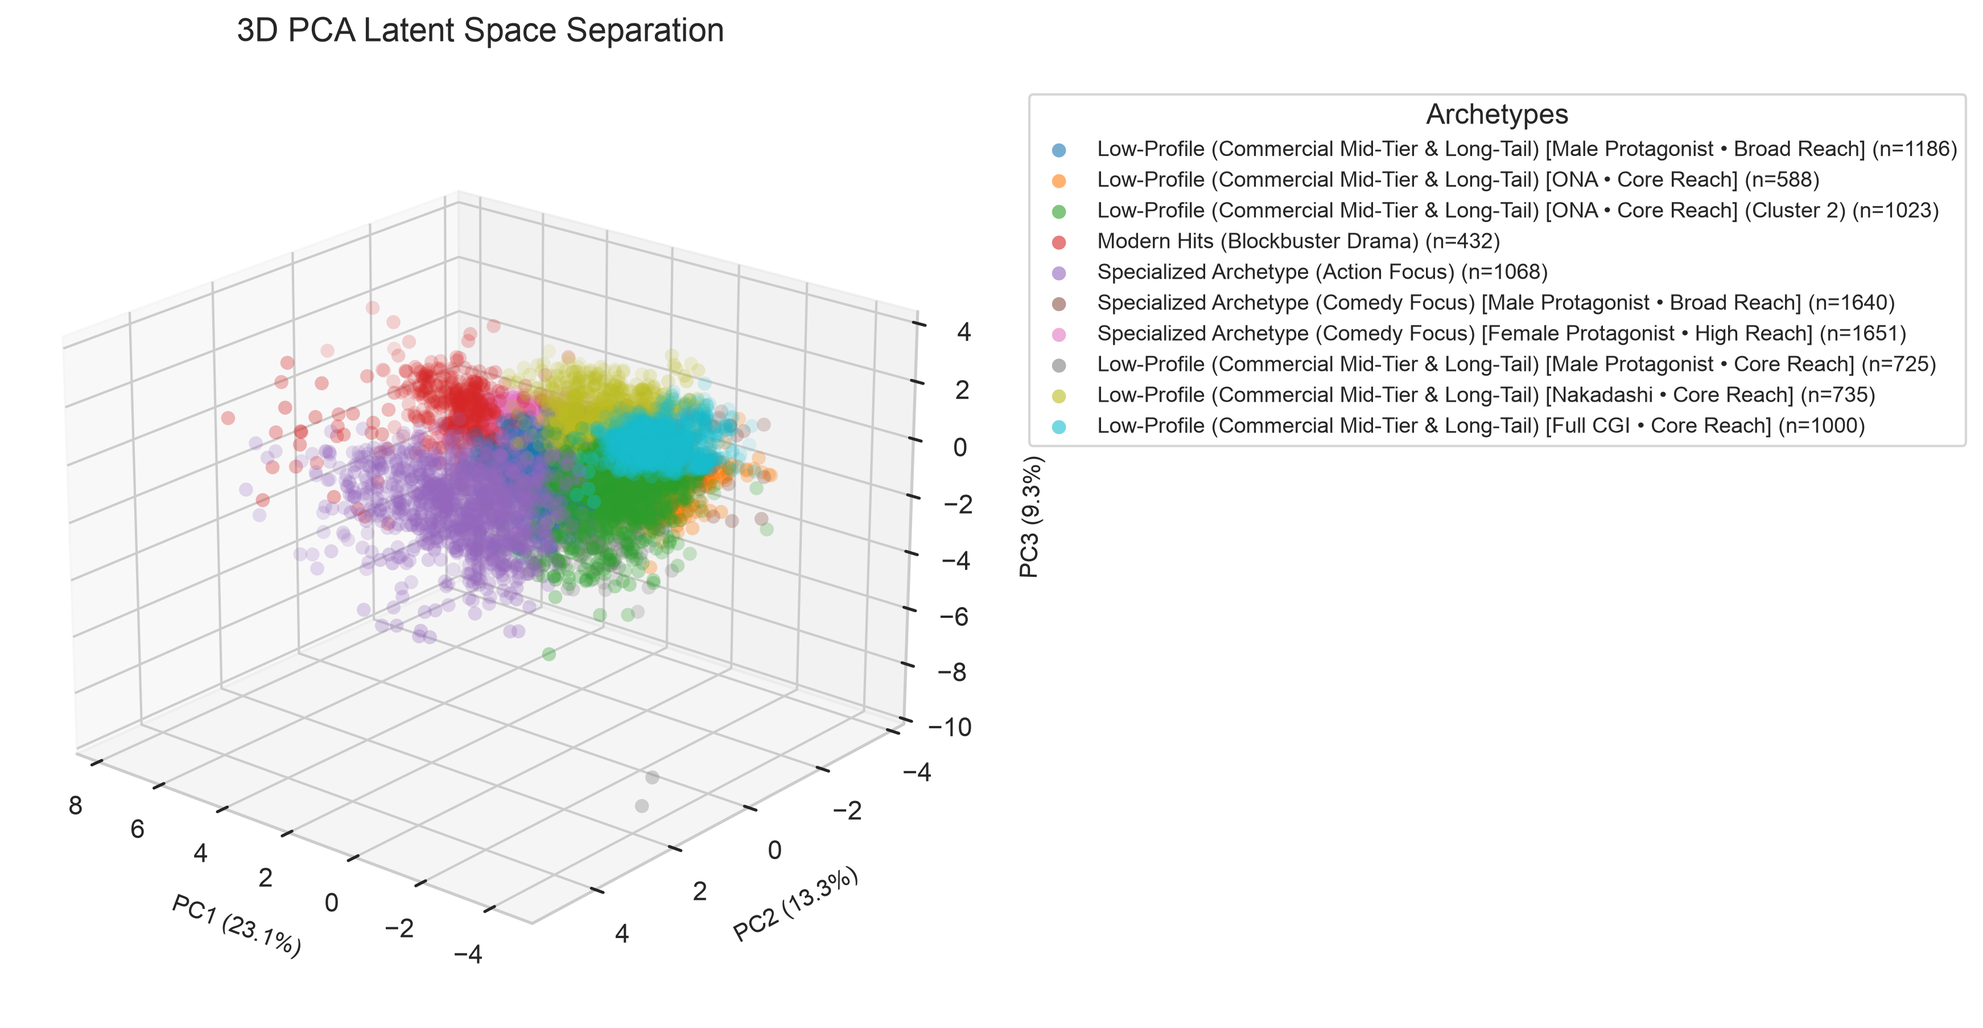
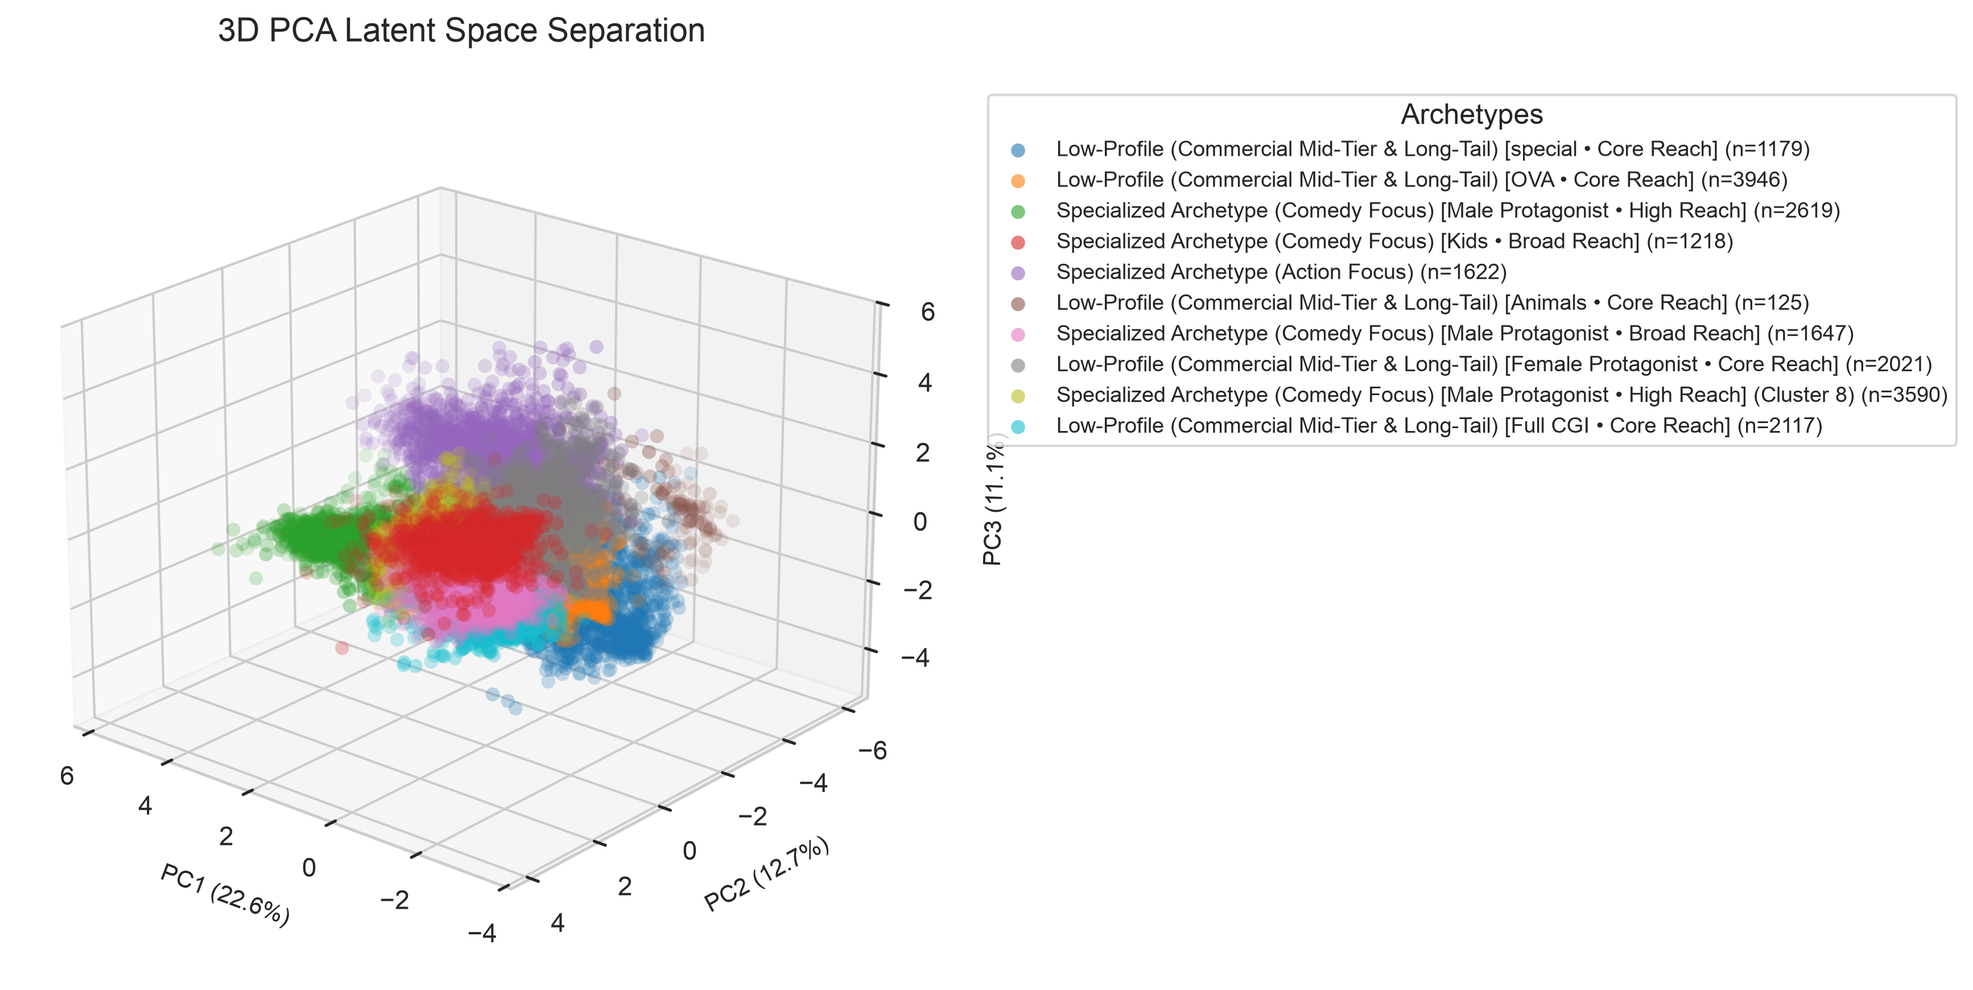
feat(data): expand catalog to 20,084 anime titles with adaptive clustering re-analysis

diff --git a/scripts/harvest_10k.py b/scripts/harvest_10k.py
@@ -67,6 +67,11 @@ class ParallelAnimeHarvester:
         """Worker thread for AniList GraphQL endpoint."""
         logger.info("AniList Worker started (rate delay: %.1fs)...", self.rate_delay)
         sort_plans = [
+            ("ID", 1, 100),
+            ("ID_DESC", 1, 100),
+            ("EPISODES_DESC", 1, 100),
+            ("TRENDING_DESC", 1, 100),
+            ("UPDATED_AT_DESC", 1, 100),
             ("POPULARITY_DESC", self.db.get_fetch_page("anilist"), 100),
             ("SCORE_DESC", 1, 100),
             ("FAVOURITES_DESC", 1, 100),
@@ -138,7 +143,7 @@ class ParallelAnimeHarvester:
         logger.info("Kitsu Worker started (rate delay: %.1fs)...", self.rate_delay)
         start_offset = (self.db.get_fetch_page("kitsu") - 1) * 20
         offset = start_offset
-        max_offset = 15000  # Kitsu has ~22,000 anime
+        max_offset = 22480  # Kitsu has ~22,481 anime
 
         try:
             while offset <= max_offset and not self.stop_event.is_set():
@@ -250,7 +255,7 @@ def run_pipeline_reanalysis(adaptive_k: bool = True) -> None:
     """Run full clustering and visualization pipeline on expanded catalog."""
     logger.info("=== Starting Pipeline Re-Analysis on Expanded Catalog ===")
     config = PipelineConfig(
-        num_samples=15000,  # Process all available DB records
+        num_samples=30000,  # Process all available DB records
         offline_mode=True,  # Work directly from populated local database
         adaptive_k=adaptive_k,
     )

diff --git a/reports/cluster_analysis_report.md b/reports/cluster_analysis_report.md
@@ -1,12 +1,12 @@
 # Anime Unsupervised Clustering & Empirical Archetype Report
 
 ## Executive Summary
-- **Dataset Analyzed**: 10,048 anime entries (Current SQLite Local Database: 10,048 titles)
+- **Dataset Analyzed**: 20,084 anime entries (Current SQLite Local Database: 20,084 titles)
 - **Data Architecture**: Dual-storage engine (SQLite `data/anime_catalog.db` with auto-sync to `data/raw_anime_data.json`)
 - **Multi-Source Support**: Primary AniList GraphQL API + Secondary Kitsu JSON:API fallback with polite rate-limiting
 - **Feature Dimensionality**: 77 engineered features (Continuous standard, categorical one-hot, multi-label genres, and TF-IDF tags)
 - **K-Means Cluster Count ($k$)**: 10
-- **DBSCAN Density Structure**: 6 dense core clusters, 119 structural noise/outlier points
+- **DBSCAN Density Structure**: 2 dense core clusters, 36 structural noise/outlier points
 
 ---
 
@@ -15,9 +15,9 @@ Cluster cohesion and separation were evaluated across candidate cluster counts $
 
 | $k$ (Clusters) | Inertia ($WCSS$) | Silhouette Score | Archetype Alignment Status |
 |:--------------:|:----------------:|:----------------:|:--------------------------:|
-| 10 | 64065.18 | 0.1116 | Selected |
-| 11 | 62802.63 | 0.1057 |  |
-| 12 | 61675.41 | 0.1085 |  |
+| 10 | 116331.67 | 0.1331 | Selected |
+| 11 | 112126.75 | 0.1327 |  |
+| 12 | 110513.50 | 0.1279 |  |
 
 > [!NOTE]
 > **Adaptive Cluster Scaling & Parsimony Tradeoff**: The candidate search window scales dynamically with catalog volume. Penalized silhouette scoring prevents premature saturation at coarse $k$ while rewarding relative inertia reduction, allowing subtle sub-genres and era distinctions to surface as the database grows.
@@ -27,121 +27,121 @@ Cluster cohesion and separation were evaluated across candidate cluster counts $
 ## 2. Cluster Profiles Summary Table
 Quantitative feature means and dominant categorical traits across each discovered cluster archetype:
 
-|   cluster_id | archetype                                                                      |   size |   score |   mean_score |   popularity |   mean_popularity |   year |   median_year |   favorites_ratio |   mean_favorites_ratio | top_genres                 | top_tags                                           |
-|--------------|--------------------------------------------------------------------------------|--------|---------|--------------|--------------|-------------------|--------|---------------|-------------------|------------------------|----------------------------|----------------------------------------------------|
-|            0 | Low-Profile (Commercial Mid-Tier & Long-Tail) [Male Protagonist • Broad Reach] |   1186 |   70.08 |        70.08 |     13943.90 |          13943.90 |   2014 |       2014.50 |              0.01 |                   0.01 | Comedy, Action, Fantasy    | Male Protagonist, Female Protagonist, School       |
-|            1 | Low-Profile (Commercial Mid-Tier & Long-Tail) [ONA • Core Reach]               |    588 |   66.75 |        66.75 |      3215.20 |           3215.17 |   2012 |       2012.00 |              0.00 |                   0.00 | Animation, Tv, Ona         | TV, ONA, special                                   |
-|            2 | Low-Profile (Commercial Mid-Tier & Long-Tail) [ONA • Core Reach] (Cluster 2)   |   1023 |   69.02 |        69.02 |      3344.50 |           3344.53 |   2012 |       2012.00 |              0.00 |                   0.00 | Animation, Special, Ova    | special, OVA, ONA                                  |
-|            3 | Modern Hits (Blockbuster Drama)                                                |    432 |   81.95 |        81.95 |    234334.10 |         234334.08 |   2017 |       2017.00 |              0.05 |                   0.05 | Drama, Action, Comedy      | Male Protagonist, Tragedy, Female Protagonist      |
-|            4 | Specialized Archetype (Action Focus)                                           |   1068 |   72.60 |        72.60 |     25377.40 |          25377.40 |   2014 |       2013.50 |              0.01 |                   0.01 | Action, Drama, Adventure   | Male Protagonist, Female Protagonist, Tragedy      |
-|            5 | Specialized Archetype (Comedy Focus) [Male Protagonist • Broad Reach]          |   1640 |   61.79 |        61.79 |     21389.30 |          21389.35 |   2016 |       2016.00 |              0.01 |                   0.01 | Comedy, Action, Fantasy    | Male Protagonist, Female Protagonist, School       |
-|            6 | Specialized Archetype (Comedy Focus) [Female Protagonist • High Reach]         |   1651 |   73.22 |        73.22 |     76869.80 |          76869.82 |   2019 |       2019.00 |              0.02 |                   0.02 | Comedy, Action, Fantasy    | Male Protagonist, Female Protagonist, Heterosexual |
-|            7 | Low-Profile (Commercial Mid-Tier & Long-Tail) [Male Protagonist • Core Reach]  |    725 |   70.13 |        70.13 |     12829.10 |          12829.15 |   1999 |       1999.00 |              0.02 |                   0.02 | Comedy, Action, Adventure  | Male Protagonist, Female Protagonist, Shounen      |
-|            8 | Low-Profile (Commercial Mid-Tier & Long-Tail) [Nakadashi • Core Reach]         |    735 |   67.48 |        67.48 |      2388.00 |           2387.97 |   2015 |       2015.00 |              0.04 |                   0.04 | Hentai, Fantasy, Action    | Nakadashi, Fellatio, Large Breasts                 |
-|            9 | Low-Profile (Commercial Mid-Tier & Long-Tail) [Full CGI • Core Reach]          |   1000 |   67.77 |        67.77 |       630.80 |            630.79 |   2015 |       2015.00 |              0.01 |                   0.01 | Fantasy, Action, Adventure | Full CGI, Female Protagonist, Male Protagonist     |
+|   cluster_id | archetype                                                                        |   size |   score |   mean_score |   popularity |   mean_popularity |   year |   median_year |   favorites_ratio |   mean_favorites_ratio | top_genres                | top_tags                                           |
+|--------------|----------------------------------------------------------------------------------|--------|---------|--------------|--------------|-------------------|--------|---------------|-------------------|------------------------|---------------------------|----------------------------------------------------|
+|            0 | Low-Profile (Commercial Mid-Tier & Long-Tail) [special • Core Reach]             |   1179 |   66.49 |        66.49 |       249.00 |            248.98 |   2014 |       2014.00 |              0.23 |                   0.23 | Animation, Special, Ona   | special, ONA, music                                |
+|            1 | Low-Profile (Commercial Mid-Tier & Long-Tail) [OVA • Core Reach]                 |   3946 |   65.83 |        65.83 |       701.20 |            701.21 |   2012 |       2012.00 |              0.01 |                   0.01 | Animation, Special, Ova   | special, OVA, Female Protagonist                   |
+|            2 | Specialized Archetype (Comedy Focus) [Male Protagonist • High Reach]             |   2619 |   73.19 |        73.19 |     94218.00 |          94218.04 |   2018 |       2018.00 |              0.02 |                   0.02 | Comedy, Action, Drama     | Male Protagonist, Female Protagonist, Heterosexual |
+|            3 | Specialized Archetype (Comedy Focus) [Kids • Broad Reach]                        |   1218 |   63.75 |        63.75 |      2630.10 |           2630.09 |   1989 |       1989.00 |              0.01 |                   0.01 | Comedy, Adventure, Sci-Fi | Male Protagonist, Kids, Female Protagonist         |
+|            4 | Specialized Archetype (Action Focus)                                             |   1622 |   71.05 |        71.05 |     20415.10 |          20415.06 |   2012 |       2012.00 |              0.01 |                   0.01 | Action, Drama, Adventure  | Male Protagonist, Female Protagonist, movie        |
+|            5 | Low-Profile (Commercial Mid-Tier & Long-Tail) [Animals • Core Reach]             |    125 |   57.35 |        57.35 |       286.40 |            286.36 |   1938 |       1938.00 |              0.20 |                   0.20 | Animation, Movie, Special | movie, Achromatic, Animals                         |
+|            6 | Specialized Archetype (Comedy Focus) [Male Protagonist • Broad Reach]            |   1647 |   53.23 |        53.23 |      2632.50 |           2632.50 |   2014 |       2014.00 |              0.01 |                   0.01 | Comedy, Fantasy, Action   | Female Protagonist, Kids, Male Protagonist         |
+|            7 | Low-Profile (Commercial Mid-Tier & Long-Tail) [Female Protagonist • Core Reach]  |   2021 |   51.81 |        51.81 |      1357.40 |           1357.40 |   2000 |       2000.00 |              0.01 |                   0.01 | Hentai, Comedy, Action    | Female Protagonist, Male Protagonist, Rape         |
+|            8 | Specialized Archetype (Comedy Focus) [Male Protagonist • High Reach] (Cluster 8) |   3590 |   67.01 |        67.01 |      9866.80 |           9866.84 |   2013 |       2013.00 |              0.01 |                   0.01 | Comedy, Action, Fantasy   | Male Protagonist, Female Protagonist, School       |
+|            9 | Low-Profile (Commercial Mid-Tier & Long-Tail) [Full CGI • Core Reach]            |   2117 |   67.42 |        67.42 |       403.80 |            403.85 |   2012 |       2012.00 |              0.01 |                   0.01 | Fantasy, Action, Comedy   | Full CGI, ONA, TV                                  |
 
 ---
 
 ## 3. Detailed Empirical Archetype Findings
-### Cluster 0: Low-Profile (Commercial Mid-Tier & Long-Tail) [Male Protagonist • Broad Reach]
-- **Cluster Size**: 1186 titles (11.8% of catalog)
+### Cluster 0: Low-Profile (Commercial Mid-Tier & Long-Tail) [special • Core Reach]
+- **Cluster Size**: 1179 titles (5.9% of catalog)
 - **Median Release Year**: 2014
-- **Mean Average Score**: 70.08 / 100
-- **Mean Popularity**: 13,944 members
-- **Favorites-to-Popularity Ratio**: 0.0090
-- **Dominant Genres**: Comedy, Action, Fantasy
-- **Key Thematic Tags**: Male Protagonist, Female Protagonist, School
-- **Representative Exemplar Titles**: Attack on Titan: No Regrets, Steins;Gate: Egoistic Poriomania, the Garden of sinners Chapter 1: Thanatos. (Overlooking View), Little Witch Academia, One-Punch Man: Road to Hero
+- **Mean Average Score**: 66.49 / 100
+- **Mean Popularity**: 249 members
+- **Favorites-to-Popularity Ratio**: 0.2254
+- **Dominant Genres**: Animation, Special, Ona
+- **Key Thematic Tags**: special, ONA, music
+- **Representative Exemplar Titles**: Dirty Pair Flash 3, Solty Rei Special, UFO Princess Valkyrie: Special, Toriko x One Piece Collabo Special, Shukufuku no Campanella Specials
 
-### Cluster 1: Low-Profile (Commercial Mid-Tier & Long-Tail) [ONA • Core Reach]
-- **Cluster Size**: 588 titles (5.9% of catalog)
+### Cluster 1: Low-Profile (Commercial Mid-Tier & Long-Tail) [OVA • Core Reach]
+- **Cluster Size**: 3946 titles (19.6% of catalog)
 - **Median Release Year**: 2012
-- **Mean Average Score**: 66.75 / 100
-- **Mean Popularity**: 3,215 members
-- **Favorites-to-Popularity Ratio**: 0.0033
-- **Dominant Genres**: Animation, Tv, Ona
-- **Key Thematic Tags**: TV, ONA, special
-- **Representative Exemplar Titles**: Kiss x Sis (TV), Aldnoah.Zero 2nd Season, The Asterisk War: The Academy City on the Water, Air, Special A (S.A)
-
-### Cluster 2: Low-Profile (Commercial Mid-Tier & Long-Tail) [ONA • Core Reach] (Cluster 2)
-- **Cluster Size**: 1023 titles (10.2% of catalog)
-- **Median Release Year**: 2012
-- **Mean Average Score**: 69.02 / 100
-- **Mean Popularity**: 3,344 members
-- **Favorites-to-Popularity Ratio**: 0.0032
+- **Mean Average Score**: 65.83 / 100
+- **Mean Popularity**: 701 members
+- **Favorites-to-Popularity Ratio**: 0.0115
 - **Dominant Genres**: Animation, Special, Ova
-- **Key Thematic Tags**: special, OVA, ONA
-- **Representative Exemplar Titles**: Attack on Titan Season 3 Specials, Hunter x Hunter: Greed Island, Hunter x Hunter: Greed Island Final, Avatar: The Legend So Far, Hunter x Hunter OVA
+- **Key Thematic Tags**: special, OVA, Female Protagonist
+- **Representative Exemplar Titles**: My Hero Academia Movie 2: Heroes Rising Epilogue Plus, Naruto Narutimate Hero 3: Tsuini Gekitotsu! Jounin vs. Genin!! Musabetsu Dairansen taikai Kaisai!!, My Ordinary Life Episode 0, Saiki Kusuo OkaerinaPSI Special, Gintama: Shiroyasha Koutan
 
-### Cluster 3: Modern Hits (Blockbuster Drama)
-- **Cluster Size**: 432 titles (4.3% of catalog)
-- **Median Release Year**: 2017
-- **Mean Average Score**: 81.95 / 100
-- **Mean Popularity**: 234,334 members
-- **Favorites-to-Popularity Ratio**: 0.0457
-- **Dominant Genres**: Drama, Action, Comedy
-- **Key Thematic Tags**: Male Protagonist, Tragedy, Female Protagonist
+### Cluster 2: Specialized Archetype (Comedy Focus) [Male Protagonist • High Reach]
+- **Cluster Size**: 2619 titles (13.0% of catalog)
+- **Median Release Year**: 2018
+- **Mean Average Score**: 73.19 / 100
+- **Mean Popularity**: 94,218 members
+- **Favorites-to-Popularity Ratio**: 0.0214
+- **Dominant Genres**: Comedy, Action, Drama
+- **Key Thematic Tags**: Male Protagonist, Female Protagonist, Heterosexual
 - **Representative Exemplar Titles**: Attack on Titan, Demon Slayer: Kimetsu no Yaiba, JUJUTSU KAISEN, Death Note, My Hero Academia
 
-### Cluster 4: Specialized Archetype (Action Focus)
-- **Cluster Size**: 1068 titles (10.6% of catalog)
-- **Median Release Year**: 2014
-- **Mean Average Score**: 72.60 / 100
-- **Mean Popularity**: 25,377 members
-- **Favorites-to-Popularity Ratio**: 0.0129
-- **Dominant Genres**: Action, Drama, Adventure
-- **Key Thematic Tags**: Male Protagonist, Female Protagonist, Tragedy
-- **Representative Exemplar Titles**: Demon Slayer -Kimetsu no Yaiba- The Movie: Mugen Train, JUJUTSU KAISEN 0, Your Name., Weathering With You, A Silent Voice
+### Cluster 3: Specialized Archetype (Comedy Focus) [Kids • Broad Reach]
+- **Cluster Size**: 1218 titles (6.1% of catalog)
+- **Median Release Year**: 1989
+- **Mean Average Score**: 63.75 / 100
+- **Mean Popularity**: 2,630 members
+- **Favorites-to-Popularity Ratio**: 0.0145
+- **Dominant Genres**: Comedy, Adventure, Sci-Fi
+- **Key Thematic Tags**: Male Protagonist, Kids, Female Protagonist
+- **Representative Exemplar Titles**: Mobile Suit Gundam, Tomorrow's Joe, Saint Seiya: Knights of the Zodiac, Fist of the North Star, Lupin the 3rd
 
-### Cluster 5: Specialized Archetype (Comedy Focus) [Male Protagonist • Broad Reach]
-- **Cluster Size**: 1640 titles (16.3% of catalog)
-- **Median Release Year**: 2016
-- **Mean Average Score**: 61.79 / 100
-- **Mean Popularity**: 21,389 members
-- **Favorites-to-Popularity Ratio**: 0.0097
+### Cluster 4: Specialized Archetype (Action Focus)
+- **Cluster Size**: 1622 titles (8.1% of catalog)
+- **Median Release Year**: 2012
+- **Mean Average Score**: 71.05 / 100
+- **Mean Popularity**: 20,415 members
+- **Favorites-to-Popularity Ratio**: 0.0147
+- **Dominant Genres**: Action, Drama, Adventure
+- **Key Thematic Tags**: Male Protagonist, Female Protagonist, movie
+- **Representative Exemplar Titles**: A Silent Voice, Your Name., Demon Slayer -Kimetsu no Yaiba- The Movie: Mugen Train, Spirited Away, JUJUTSU KAISEN 0
+
+### Cluster 5: Low-Profile (Commercial Mid-Tier & Long-Tail) [Animals • Core Reach]
+- **Cluster Size**: 125 titles (0.6% of catalog)
+- **Median Release Year**: 1938
+- **Mean Average Score**: 57.35 / 100
+- **Mean Popularity**: 286 members
+- **Favorites-to-Popularity Ratio**: 0.1975
+- **Dominant Genres**: Animation, Movie, Special
+- **Key Thematic Tags**: movie, Achromatic, Animals
+- **Representative Exemplar Titles**: Momotaro, Sacred Sailors, Katsudou Shashin, Kumo to Tulip, The Dull Sword, Momotarou no Umiwashi
+
+### Cluster 6: Specialized Archetype (Comedy Focus) [Male Protagonist • Broad Reach]
+- **Cluster Size**: 1647 titles (8.2% of catalog)
+- **Median Release Year**: 2014
+- **Mean Average Score**: 53.23 / 100
+- **Mean Popularity**: 2,632 members
+- **Favorites-to-Popularity Ratio**: 0.0114
+- **Dominant Genres**: Comedy, Fantasy, Action
+- **Key Thematic Tags**: Female Protagonist, Kids, Male Protagonist
+- **Representative Exemplar Titles**: King's Game, The Lost Village, My Life as Inukai-san’s Dog, Netsuzou Trap -NTR-, Pupa
+
+### Cluster 7: Low-Profile (Commercial Mid-Tier & Long-Tail) [Female Protagonist • Core Reach]
+- **Cluster Size**: 2021 titles (10.1% of catalog)
+- **Median Release Year**: 2000
+- **Mean Average Score**: 51.81 / 100
+- **Mean Popularity**: 1,357 members
+- **Favorites-to-Popularity Ratio**: 0.0083
+- **Dominant Genres**: Hentai, Comedy, Action
+- **Key Thematic Tags**: Female Protagonist, Male Protagonist, Rape
+- **Representative Exemplar Titles**: Dragon Ball Z: Bio-Broly, Boku no Pico, Chika Gentou Gekiga: Shoujo Tsubaki, Mars of Destruction, Dragon Ball: Curse of the Blood Rubies
+
+### Cluster 8: Specialized Archetype (Comedy Focus) [Male Protagonist • High Reach] (Cluster 8)
+- **Cluster Size**: 3590 titles (17.9% of catalog)
+- **Median Release Year**: 2013
+- **Mean Average Score**: 67.01 / 100
+- **Mean Popularity**: 9,867 members
+- **Favorites-to-Popularity Ratio**: 0.0135
 - **Dominant Genres**: Comedy, Action, Fantasy
 - **Key Thematic Tags**: Male Protagonist, Female Protagonist, School
-- **Representative Exemplar Titles**: The Promised Neverland Season 2, Boruto: Naruto Next Generations, Eromanga Sensei, In Another World With My Smartphone, One-Punch Man Season 3
-
-### Cluster 6: Specialized Archetype (Comedy Focus) [Female Protagonist • High Reach]
-- **Cluster Size**: 1651 titles (16.4% of catalog)
-- **Median Release Year**: 2019
-- **Mean Average Score**: 73.22 / 100
-- **Mean Popularity**: 76,870 members
-- **Favorites-to-Popularity Ratio**: 0.0176
-- **Dominant Genres**: Comedy, Action, Fantasy
-- **Key Thematic Tags**: Male Protagonist, Female Protagonist, Heterosexual
-- **Representative Exemplar Titles**: My Hero Academia Season 2, Attack on Titan, My Hero Academia Season 3, My Hero Academia, My Hero Academia Season 4
-
-### Cluster 7: Low-Profile (Commercial Mid-Tier & Long-Tail) [Male Protagonist • Core Reach]
-- **Cluster Size**: 725 titles (7.2% of catalog)
-- **Median Release Year**: 1999
-- **Mean Average Score**: 70.13 / 100
-- **Mean Popularity**: 12,829 members
-- **Favorites-to-Popularity Ratio**: 0.0178
-- **Dominant Genres**: Comedy, Action, Adventure
-- **Key Thematic Tags**: Male Protagonist, Female Protagonist, Shounen
-- **Representative Exemplar Titles**: Dragon Ball, Pokémon, Dragon Ball GT, Full Metal Panic!, Chobits
-
-### Cluster 8: Low-Profile (Commercial Mid-Tier & Long-Tail) [Nakadashi • Core Reach]
-- **Cluster Size**: 735 titles (7.3% of catalog)
-- **Median Release Year**: 2015
-- **Mean Average Score**: 67.48 / 100
-- **Mean Popularity**: 2,388 members
-- **Favorites-to-Popularity Ratio**: 0.0398
-- **Dominant Genres**: Hentai, Fantasy, Action
-- **Key Thematic Tags**: Nakadashi, Fellatio, Large Breasts
-- **Representative Exemplar Titles**: Manga Café Mishaps, Kawaki wo Ameku, Eroge! Sex and Gamedev, RWBY, Ane wa Yanmama Junyuu-chuu
+- **Representative Exemplar Titles**: Attack on Titan Season 3 Specials, Corpse Party, Hunter x Hunter: Greed Island, Diabolik Lovers, Boku no Hero Academia: Sukue! Kyuujo Kunren!
 
 ### Cluster 9: Low-Profile (Commercial Mid-Tier & Long-Tail) [Full CGI • Core Reach]
-- **Cluster Size**: 1000 titles (10.0% of catalog)
-- **Median Release Year**: 2015
-- **Mean Average Score**: 67.77 / 100
-- **Mean Popularity**: 631 members
+- **Cluster Size**: 2117 titles (10.5% of catalog)
+- **Median Release Year**: 2012
+- **Mean Average Score**: 67.42 / 100
+- **Mean Popularity**: 404 members
 - **Favorites-to-Popularity Ratio**: 0.0128
-- **Dominant Genres**: Fantasy, Action, Adventure
-- **Key Thematic Tags**: Full CGI, Female Protagonist, Male Protagonist
-- **Representative Exemplar Titles**: Inferno Cop 2, Girls' Work, Qing Jiao Wo Gui Chai Da Ren, BLADE & BASTARD, The Bugle Call: Song of War
+- **Dominant Genres**: Fantasy, Action, Comedy
+- **Key Thematic Tags**: Full CGI, ONA, TV
+- **Representative Exemplar Titles**: Adventure Time Season 3, Adventure Time Season 8, Adventure Time Season 4, Adventure Time Season 5, Adventure Time Season 6
 
 ---
 
